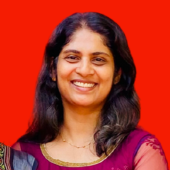
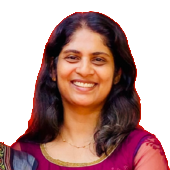
trimmed background

diff --git a/src/styles.scss b/src/styles.scss
@@ -503,10 +503,10 @@ body {
 }
 
 .service-card .card-icon {
-  background-image: url("./app/images/service-banner-pattern.png");
+  // background-image: url("./app/images/service-banner-pattern.png");
   background-repeat: no-repeat;
   background-size: contain;
-  background-color: hsla(335, 87%, 53%, 0.12);
+  // background-color: hsla(335, 87%, 53%, 0.12);
   aspect-ratio: 1 / 1;
   max-width: 165px;
   display: grid;
@@ -516,7 +516,7 @@ body {
 }
 
 .service-card:hover .card-icon {
-  background-color: var(--winter-sky);
+  // background-color: var(--winter-sky);
 }
 
 .service-card .card-icon ion-icon {
@@ -527,7 +527,7 @@ body {
 }
 
 .service-card:hover .card-icon ion-icon {
-  color: var(--white);
+  // color: var(--white);
 }
 
 .service-card .title {
